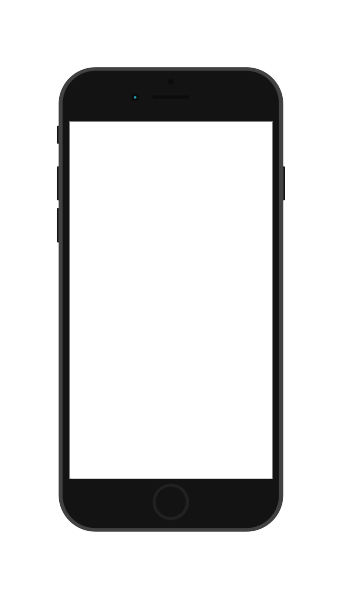
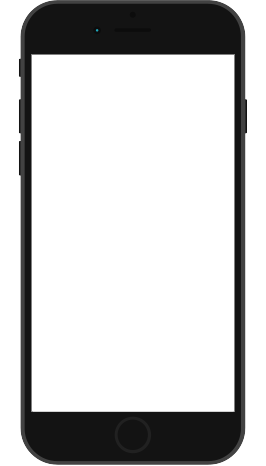
agregando iframe

diff --git a/assets/js/components/portfolio.js b/assets/js/components/portfolio.js
@@ -68,30 +68,35 @@ const projects = (container) => {
 };
 
 const modalProjects = (data, i) => {
-
     $(window).off('keydown');
-
     const index = i - 4;
 
     const modal = $('<section class="container container--modal"></section>');
 
     const row = $('<div class="row"></div>');
     const colMockUp = $('<div class="col-xs-12 col-lg-3 col-lg-offset-2"></div>');
-    const mockUp = $('<img src="assets/img/' + state.language.mockup + '"/>');
+    const divMockup = $('<div class="container--mockup"></div>');
+    const mockUp = $('<img class="mockup-cellphone" src="assets/img/' + state.language.mockup + '"/>');
+    const insideMockUp = $('<div class="container--iframe"></div>');
+    const iframe = $('<iframe src="' + state.data.projects[index].link+ '"></iframe>');
 
     const colText = $('<div class="col-xs-12 col-lg-4 col-lg-offset-1"></div>');
     const text = $('<h1 class="text">' + state.data.projects[index].name + '</h1>');
 
-    colMockUp.append(mockUp);
+    insideMockUp.append(iframe);
+    divMockup.append(insideMockUp);
+    divMockup.append(mockUp);
+    colMockUp.append(divMockup);
+
     colText.append(text);
+
     row.append(colMockUp);
     row.append(colText);
 
     //Page Transition
     setTimeout(() => {
         $('.icon-back').removeClass('hide-fixed');
-    }, 800);
-
+    }, 500);
     let page = i,
         prevPage = page - 1,
         nextPage = page + 1;
@@ -105,14 +110,10 @@ const modalProjects = (data, i) => {
 
     $('.navegadores').addClass(' hide-fixed ');
     $('.main-logo').addClass(' hide-fixed ');
-
     //End Page Transition
 
+    if (state.language == state.english) {modal.addClass('english');}
+
     modal.append(row);
-
-    if (state.language == state.english) {
-        modal.addClass('english');
-    }
-
     return modal;
 };

diff --git a/assets/css/main.css b/assets/css/main.css
@@ -1005,6 +1005,25 @@ body {
   .container--contact a {
     color: #e0dcdd;
     text-decoration: none; }
+  .container--mockup {
+    position: relative;
+    width: 350px;
+    height: 605px; }
+    .container--mockup img.mockup-cellphone {
+      width: 100%;
+      height: 100%; }
+  .container--iframe {
+    background-color: #fff;
+    position: absolute;
+    top: 65px;
+    left: 43px;
+    width: 265px;
+    height: 470px;
+    -webkit-overflow-scrolling: touch; }
+    .container--iframe iframe {
+      border: 0;
+      width: 100%;
+      height: 100%; }
 
 .show-page {
   visibility: visible;

diff --git a/src/main.scss b/src/main.scss
@@ -122,6 +122,29 @@ body {
   &--modal{
 
   }
+  &--mockup{
+    position: relative;
+    width: 350px;
+    height: 605px;
+    img.mockup-cellphone{
+      width: 100%;
+      height: 100%;
+    }
+  }
+  &--iframe{
+    background-color: $white;
+    position: absolute;
+    top: 65px;
+    left: 43px;
+    width: 265px;
+    height: 470px;
+    -webkit-overflow-scrolling:touch;
+    iframe{
+      border: 0;
+      width: 100%;
+      height: 100%;
+    }
+  };
 }
 
 .show-page {
